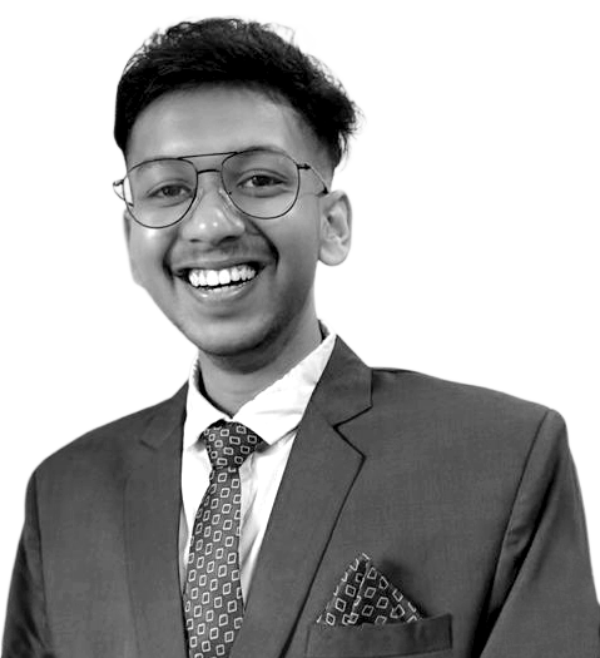
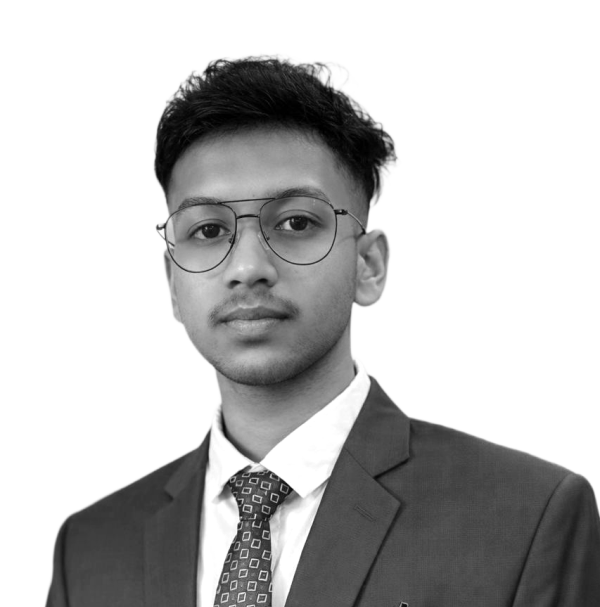
chnages done

diff --git a/index.html b/index.html
@@ -2086,7 +2086,8 @@
                                                     <div class="elementor-widget-container">
                                                         <div id="pxl-pxl_button-681f32c-7619" class="pxl-button pxl-atc-link " data-wow-delay="ms">
                                                             <a class="btn pxl-icon-active btn-block-inline  btn-icon-box7 pxl-icon--right">
-                                                                <span class="pxl--btn-text" data-text="Contact Us"> Join us today </span>
+                                                                <span class="pxl--btn-text" data-text="Contact Us"> Join
+                                                                    us today </span>
                                                             </a>
                                                         </div>
                                                     </div>
@@ -2124,7 +2125,8 @@
                                                                 <ul id="menu-main-menu-1" class="pxl-menu-primary  ">
                                                                     <li class="menu-item menu-item-type-post_type menu-item-object-page menu-item-home pxl-megamenu menu-item-has-children menu-item-4976">
                                                                         <a href="index.html"><span
-                                                                                class="pxl-menu-item-text">How it Works</a>
+                                                                                class="pxl-menu-item-text">How it
+                                                                                Works</a>
                                                                         <!-- <div class="sub-menu pxl-mega-menu">
                                                                             <div class="pxl-mega-menu-elementor">
                                                                                 <div data-elementor-type="wp-post" data-elementor-id="4961" class="elementor elementor-4961">
@@ -2466,7 +2468,8 @@
                                                                     </li>
                                                                     <li id="menu-item-45" class="menu-item menu-item-type-custom menu-item-object-custom menu-item-has-children menu-item-45">
                                                                         <a href="#!"><span
-                                                                                class="pxl-menu-item-text">Public Sale</a>
+                                                                                class="pxl-menu-item-text">Public
+                                                                                Sale</a>
                                                                     </li>
                                                                     <li id="menu-item-45" class="menu-item menu-item-type-custom menu-item-object-custom menu-item-has-children menu-item-45">
                                                                         <a href="#!"><span
@@ -2502,7 +2505,8 @@
                                                     <div class="elementor-widget-container">
                                                         <div id="pxl-pxl_button-681f32c-5620" class="pxl-button pxl-atc-link " data-wow-delay="ms">
                                                             <a class="btn pxl-icon-active btn-block-inline  btn-icon-box7 pxl-icon--right">
-                                                                <span class="pxl--btn-text" data-text="Contact Us"> Join us today</span>
+                                                                <span class="pxl--btn-text" data-text="Contact Us"> Join
+                                                                    us today</span>
                                                             </a>
                                                         </div>
                                                     </div>
@@ -3153,8 +3157,9 @@
                                                                 <li>Global usage - over 150 countries (POS & ATM)</li>
                                                             </ul>
                                                             <div class="text-center">
-                                                                <a href="#!">
-                                                                    <button style="background-color: #4520c2; border-radius: 10px; font-size: 16px; font-weight: 500; line-height: 48px;">Get Card</button>
+                                                                <a href="https://dappay.app/" target="_blank">
+                                                                    <button style="background-color: #4520c2; border-radius: 10px; font-size: 16px; font-weight: 500; line-height: 48px;">Get
+                                                                        Card</button>
                                                                 </a>
                                                             </div>
                                                         </div>
@@ -3251,7 +3256,8 @@
                                                 </div>
                                                 <div class="text-center">
                                                     <a href="https://dappay.app/" target="_blank">
-                                                        <button style="background-color: #4520c2; border-radius: 10px; font-size: 18px; font-weight: 500; ">Get Your Card Now</button>
+                                                        <button style="background-color: #4520c2; border-radius: 10px; font-size: 18px; font-weight: 500; ">Get
+                                                            Your Card Now</button>
                                                     </a>
                                                 </div>
                                             </div>
@@ -3361,14 +3367,14 @@
                                                 <img src="image/08/RoadmapBG.png" alt="" width="100%">
                                             </div>
                                         </section>
-                                        <!-- Our Team section starts -->
+                                        <!-- Our Founders section starts -->
                                         <section class="our-team">
                                             <div class="container">
-                                                <h2 class="text-white">Meet Our Team</h2>
-                                                <p class="mb-2">DaveLabs is built by a team that understands one thing deeply: financial infrastructure only matters if it works in the real world. <br> Our team combines experience from payments, fintech, blockchain infrastructure,
-                                                    compliance, and global operations.</p>
+                                                <h2 class="text-white">Meet Our Founders</h2>
+                                                <p class="mb-2">DaveLabs is built by a team that understands one thing deeply: financial infrastructure only matters if it works in the real world. <br> Our team brings proven experience from payments, fintech, blockchain
+                                                    infrastructure, compliance, and global operations — coupled with strategic foresight to anticipate market shifts and the vision to build financial systems that serve the next billion users.</p>
                                                 <div class="row">
-                                                    <div class="col-lg-4 col-md-6 col-12 my-3 position-relative">
+                                                    <div class="col-md-6 col-12 my-3 position-relative">
                                                         <div class="linked-icon">
                                                             <a href="#!">
                                                                 <img src="image/09/Linkedin.png" alt="">
@@ -3380,10 +3386,83 @@
                                                         <div class="team-name">
                                                             <h5 class="mb-0 text-white">Shreya Shri</h5>
                                                         </div>
-                                                        <p class="text-center pt-1">CEO & Founder, DaveLabs</p>
-                                                        <span style="font-size: 14px;">Shreya Shri is the Founder & CEO of DaveLabs, leading the development of infrastructure-first financial systems built for real settlement and scalable utility. She drives the company’s long-term vision, product strategy, and ecosystem architecture. Her leadership focuses on building compliant, capital-efficient frameworks designed for institutional-grade growth.</span>
+                                                        <p class="text-center pt-1">CEO & Co-Founder, DaveLabs</p>
+                                                        <span style="font-size: 14px;">Shreya Shri is the Founder and
+                                                            CEO of DaveLabs, an award-winning technologist and
+                                                            entrepreneur building next-generation financial
+                                                            infrastructure for the digital economy.
+                                                            With a Computer Science degree and experience at EA
+                                                            (Electronic Arts), I built a strong foundation in scalable
+                                                            systems and design. I founded Siamaq, a successful IT
+                                                            and fintech consultancy, and serves as Director, working
+                                                            with finance and fintech projects globally and also advises
+                                                            multiple forex brokers across Asia on market positioning and
+                                                            growth strategy.
+                                                            I also founded ShriLabs a Dubai based IT company, brings
+                                                            deep expertise in Web3, DeFi, and Stablecoins, earning
+                                                            international recognition and industry awards for her work
+                                                            in digital financial innovation. Rising from a small town
+                                                            background, now leads ventures on the global stage as a
+                                                            recognized woman entrepreneur.
+                                                            At DaveLabs, I am solving critical challenges in
+                                                            transparency, settlement efficiency, and cross-border
+                                                            scalability — building infrastructure that connects
+                                                            traditional finance with digital assets for real-world
+                                                            usability.
+                                                            My leadership philosophy: think architecturally, not
+                                                            transactionally — because the future of finance will be
+                                                            defined by who builds systems the world can depend
+                                                            on.</span>
                                                     </div>
-                                                    <div class="col-lg-4 col-md-6 col-12 my-3 position-relative">
+                                                    <div class="col-md-6 col-12 my-3 position-relative">
+                                                        <div class="linked-icon">
+                                                            <a href="#!">
+                                                                <img src="image/09/Linkedin.png" alt="">
+                                                            </a>
+                                                        </div>
+                                                        <div class="img-box">
+                                                            <img src="image/09/AnantSingh.png" alt="">
+                                                        </div>
+                                                        <div class="team-name">
+                                                            <h5 class="mb-0 text-white">Anant Singh</h5>
+                                                        </div>
+                                                        <p class="text-center pt-1">CFO & Co-Founder, DaveLabs</p>
+                                                        <span style="font-size: 14px;">Anant Singh is a finance
+                                                            strategist and risk management expert with over a decade of
+                                                            experience in global financial markets. With an engineering
+                                                            background, he began his
+                                                            career in affiliate marketing and forex trading, developing
+                                                            deep expertise in market
+                                                            dynamics, consumer psychology, and capital optimization.
+                                                            Anant has successfully managed two brokerage houses
+                                                            simultaneously, overseeing
+                                                            end to end risk management and operations at scale. He has
+                                                            also designed and led
+                                                            multiple leadership programs globally, empowering teams and
+                                                            entrepreneurs across
+                                                            diverse markets.
+                                                            As Co-Founder and CFO of DaveLabs, Anant leverages his cross
+                                                            disciplinary
+                                                            expertise spanning engineering, finance, trading, and
+                                                            organizational leadership to
+                                                            drive financial resilience, operational excellence, and
+                                                            sustainable growth. His strategic
+                                                            foresight and investor focused approach position DaveLabs as
+                                                            a scalable, innovation
+                                                            driven venture ready to deliver long term value.</span>
+                                                    </div>
+                                                </div>
+                                            </div>
+                                        </section>
+                                        <!-- Our Founders section ends -->
+                                        <!-- Our Team section starts -->
+                                        <section class="our-team">
+                                            <div class="container">
+                                                <h2 class="text-white">Meet Our Team</h2>
+                                                <p class="mb-2">Our team combines DeFi protocol development, banking systems engineering, and regulatory compliance expertise and navigated complex regulatory frameworks across multiple jurisdictions — giving us the technical
+                                                    depth and institutional credibility to rebuild global payments.</p>
+                                                <div class="row">
+                                                    <div class="col-md-6 col-12 my-3 position-relative">
                                                         <div class="linked-icon">
                                                             <a href="https://www.linkedin.com/in/debasishdbehera/" target="_blank">
                                                                 <img src="image/09/Linkedin.png" alt="">
@@ -3396,9 +3475,15 @@
                                                             <h5 class="mb-0 text-white">Debasish Behera</h5>
                                                         </div>
                                                         <p class="text-center pt-1">CTO</p>
-                                                        <span style="font-size: 14px;">A software engineer and entrepreneur specializing in blockchain infrastructure, stablecoin systems, and AI/ML. He is a Co-Founder and former CEO of Celeriz, has engineering experience at Coinbase, and holds a Computer Science degree from UC Berkeley, combining deep technical execution with founder-level product ownership.</span>
+                                                        <span style="font-size: 14px;">A software engineer and
+                                                            entrepreneur specializing in blockchain infrastructure,
+                                                            stablecoin systems, and AI/ML. He is a Co-Founder and former
+                                                            CEO of Celeriz, has engineering experience at Coinbase, and
+                                                            holds a Computer Science degree from UC Berkeley, combining
+                                                            deep technical execution with founder-level product
+                                                            ownership.</span>
                                                     </div>
-                                                    <div class="col-lg-4 col-md-6 col-12 my-3 position-relative">
+                                                    <div class="col-md-6 col-12 my-3 position-relative">
                                                         <div class="linked-icon">
                                                             <a href="https://www.linkedin.com/in/rishab-jain-%E2%99%9B/" target="_blank">
                                                                 <img src="image/09/Linkedin.png" alt="">
@@ -3411,22 +3496,14 @@
                                                             <h5 class="mb-0 text-white">Rishab Jain</h5>
                                                         </div>
                                                         <p class="text-center pt-1">CBO</p>
-                                                        <span style="font-size: 14px;">Is a fintech founder and financial professional with experience across regulated digital banking, venture capital, and capital markets. Formerly in Credit Risk at N26, he is a CFA charterholder with a Master’s in Innovation & Entrepreneurship from ESMT Berlin and a background in building crypto-native financial infrastructure.</span>
+                                                        <span style="font-size: 14px;">Is a fintech founder and
+                                                            financial professional with experience across regulated
+                                                            digital banking, venture capital, and capital markets.
+                                                            Formerly in Credit Risk at N26, he is a CFA charterholder
+                                                            with a Master’s in Innovation & Entrepreneurship from ESMT
+                                                            Berlin and a background in building crypto-native financial
+                                                            infrastructure.</span>
                                                     </div>
-                                                    <!-- <div class="col-lg-3 col-md-6 col-12 my-4 position-relative">
-                                                        <div class="linked-icon">
-                                                            <a href="#!">
-                                                                <img src="image/09/Linkedin.png" alt="">
-                                                            </a>
-                                                        </div>
-                                                        <div class="img-box">
-                                                            <img src="https://demo.casethemes.net/aimo/wp-content/uploads/2024/09/img-team-h2-4.webp" alt="">
-                                                        </div>
-                                                        <div class="team-name">
-                                                            <h5 class="mb-0 text-white">Arman Mino</h5>
-                                                        </div>
-                                                        <p class="text-center pt-1">AI Image Creator</p>
-                                                    </div> -->
                                                 </div>
                                             </div>
                                         </section>
@@ -3438,6 +3515,37 @@
                                                 <p class="mb-0 pe-md-5">DaveLabs is supported by a carefully selected group of advisors with deep, hands-on experience across payments, financial regulation, blockchain infrastructure, and international scaling.
                                                 </p>
                                                 <div class="row">
+
+                                                    <div class="col-lg-4 col-md-6 col-12 my-4 position-relative">
+                                                        <div class="linked-icon">
+                                                            <a href="https://www.linkedin.com/in/juwanlee/" target="_blank">
+                                                                <img src="image/09/Linkedin.png" alt="">
+                                                            </a>
+                                                        </div>
+                                                        <div class="img-box">
+                                                            <img src="image/09/JuwanLee.png" alt="">
+                                                        </div>
+                                                        <div class="team-name">
+                                                            <h5 class="mb-0 text-white">Juwan Lee</h5>
+                                                        </div>
+                                                        <p class="pt-3">Chairman of NexChange and Arrakis Ventures. Former CIO of Shanghai’s largest Asset Manager and managed funds for JP Morgan, SAC Capital, Rothschilds and Montgomery.
+                                                        </p>
+                                                    </div>
+                                                    <div class="col-lg-4 col-md-6 col-12 my-4 position-relative">
+                                                        <div class="linked-icon">
+                                                            <a href="https://www.linkedin.com/in/pawel-sobkow-114316/" target="_blank">
+                                                                <img src="image/09/Linkedin.png" alt="">
+                                                            </a>
+                                                        </div>
+                                                        <div class="img-box">
+                                                            <img src="image/09/PawelSobkow.png" alt="">
+                                                        </div>
+                                                        <div class="team-name">
+                                                            <h5 class="mb-0 text-white">Pawel Sobkow</h5>
+                                                        </div>
+                                                        <p class="pt-3" style="font-size: 14px;">Senior executive and investment professional with leadership across capital markets, M&A, restructuring, and fintech. PhD in Economics (SGH); board-level experience across Europe and the Middle East.
+                                                        </p>
+                                                    </div>
                                                     <div class="col-lg-4 col-md-6 col-12 my-4 position-relative">
                                                         <div class="linked-icon">
                                                             <a href="https://www.linkedin.com/in/marta-zarosa/" target="_blank">
@@ -3452,34 +3560,6 @@
                                                         </div>
                                                         <p class="pt-3" style="font-size: 14px;">Growth & Web3 go-to-market leader. Supported 30+ Web3 launches and scaled global startups including IndaHash and Skey Network. Former Business Associate at Bering Waters Ventures; advisor on fundraising,
                                                             partnerships, and market expansion.</p>
-                                                    </div>
-                                                    <div class="col-lg-4 col-md-6 col-12 my-4 position-relative">
-                                                        <div class="linked-icon">
-                                                            <a href="https://www.linkedin.com/in/pawel-sobkow-114316/" target="_blank">
-                                                                <img src="image/09/Linkedin.png" alt="">
-                                                            </a>
-                                                        </div>
-                                                        <div class="img-box">
-                                                            <img src="image/09/PawelSobkow.png" alt="">
-                                                        </div>
-                                                        <div class="team-name">
-                                                            <h5 class="mb-0 text-white">Pawel Sobkow</h5>
-                                                        </div>
-                                                        <p class="pt-3" style="font-size: 14px;">Senior executive and investment professional with leadership across capital markets, M&A, restructuring, and fintech. PhD in Economics (SGH); board-level experience across Europe and the Middle East.</p>
-                                                    </div>
-                                                    <div class="col-lg-4 col-md-6 col-12 my-4 position-relative">
-                                                        <div class="linked-icon">
-                                                            <a href="https://www.linkedin.com/in/juwanlee/" target="_blank">
-                                                                <img src="image/09/Linkedin.png" alt="">
-                                                            </a>
-                                                        </div>
-                                                        <div class="img-box">
-                                                            <img src="image/09/JuwanLee.png" alt="">
-                                                        </div>
-                                                        <div class="team-name">
-                                                            <h5 class="mb-0 text-white">Juwan Lee</h5>
-                                                        </div>
-                                                        <p class="pt-3">Chairman of NexChange and Arrakis Ventures. Former CIO of Shanghai’s largest Asset Manager and managed funds for JP Morgan, SAC Capital, Rothschilds and Montgomery.</p>
                                                     </div>
                                                     <!-- <div class="col-lg-3 col-md-6 col-12 my-4 position-relative">
                                                         <div class="linked-icon">
@@ -3677,7 +3757,8 @@
                                                 </div>
                                                 <div class="text-center">
                                                     <a href="faq.html">
-                                                        <button style="background-color: #4520c2; border-radius: 7px; font-size: 16px; font-weight: 500; line-height: 42px;">Read More</button>
+                                                        <button style="background-color: #4520c2; border-radius: 7px; font-size: 16px; font-weight: 500; line-height: 42px;">Read
+                                                            More</button>
                                                     </a>
                                                 </div>
                                             </div>
@@ -3737,8 +3818,18 @@
                                                                             <div class="pxl-item--inner no " data-wow-delay="ms ">
                                                                                 <p style="color: #9795ae;">DaveLabs operates solely as a technology and infrastructure provider and does not offer financial investment or legal advice.
                                                                                 </p>
-                                                                                <h6 style="color: #fff; font-weight: 500;"><i class="fa-solid fa-triangle-exclamation" style="color: #ffb300;"></i> Disclaimer</h6>
-                                                                                <span style="font-size: 14px; color: #9795ae;">Participation in any tokenrelated activity is subject to jurisdictional laws and regulatory eligibility Digital assets involve operational regulatory and market risks. <br>All product names, logos, and brands are property of their respective owners.</span>
+                                                                                <h6 style="color: #fff; font-weight: 500;">
+                                                                                    <i class="fa-solid fa-triangle-exclamation" style="color: #ffb300;"></i> Disclaimer
+                                                                                </h6>
+                                                                                <span style="font-size: 14px; color: #9795ae;">Participation
+                                                                                    in any tokenrelated activity is
+                                                                                    subject to jurisdictional laws and
+                                                                                    regulatory eligibility Digital
+                                                                                    assets involve operational
+                                                                                    regulatory and market risks. <br>All
+                                                                                    product names, logos, and brands are
+                                                                                    property of their respective
+                                                                                    owners.</span>
                                                                             </div>
                                                                         </div>
                                                                     </div>
@@ -3798,7 +3889,8 @@
                                                                                 </li>
                                                                                 <li class="pxl-item--link ">
                                                                                     <a class=" " href="#! ">
-                                                                                        <span class="pxl-link--text ">Terms and Privacy</span>
+                                                                                        <span class="pxl-link--text ">Terms
+                                                                                            and Privacy</span>
                                                                                     </a>
                                                                                 </li>
                                                                             </ul>
@@ -3823,14 +3915,21 @@
                                                                 <div class="elementor-element elementor-element-3be6cba elementor-widget elementor-widget-pxl_icon_box " data-id="3be6cba " data-element_type="widget " data-widget_type="pxl_icon_box.default ">
                                                                     <div class="elementor-widget-container ">
                                                                         <ul>
-                                                                            <li style="list-style: none; "><i class="fa-regular fa-envelope" style="color: #401eb5; font-weight: 600;"></i>&nbsp;
-                                                                                <span style="font-size: 20px;">General</span> <br> contact@davelabs.io
+                                                                            <!-- <li style="list-style: none; "><i class="fa-regular fa-envelope" style="color: #401eb5; font-weight: 600;"></i>&nbsp;
+                                                                                <span style="font-size: 20px;">General</span>
+                                                                                <br> contact@davelabs.io
                                                                             </li>
                                                                             <li style="list-style: none; "><i class="fa-regular fa-envelope" style="color: #401eb5; font-weight: 600;"></i>&nbsp;
-                                                                                <span style="font-size: 20px;">Compliance</span> <br> compliance@davelabs.io
+                                                                                <span style="font-size: 20px;">Compliance</span>
+                                                                                <br> compliance@davelabs.io
+                                                                            </li> -->
+                                                                            <li style="list-style: none; "><i class="fa-regular fa-envelope" style="color: #401eb5; font-weight: 600;"></i>&nbsp;
+                                                                                <span style="font-size: 20px;">Support</span>
+                                                                                <br> support@davelabs.io
                                                                             </li>
                                                                             <li style="list-style: none; "><i class="fa-regular fa-envelope" style="color: #401eb5; font-weight: 600;"></i>&nbsp;
-                                                                                <span style="font-size: 20px;">Support</span> <br> support@davelabs.io
+                                                                                <span style="font-size: 20px;">Careers</span>
+                                                                                <br> careers@davelabs.io
                                                                             </li>
                                                                         </ul>
                                                                     </div>

diff --git a/wp-content/uploads/elementor/css/post-787485b1.css b/wp-content/uploads/elementor/css/post-787485b1.css
@@ -2794,10 +2794,9 @@ body.rtl .elementor-7874 .elementor-element.elementor-element-1aa07ff {
     }
 }
 
-
-/* .our-team .img-box {
-    height: 380px;
-} */
+.our-team .img-box {
+    height: 500px;
+}
 
 .img-box {
     background-color: #171437;
@@ -3318,4 +3317,7 @@ body.rtl .elementor-7874 .elementor-element.elementor-element-1aa07ff {
     #token-img img {
         width: 100% !important;
     }
+    /* .our-team .img-box {
+        height: 300px;
+    } */
 }
